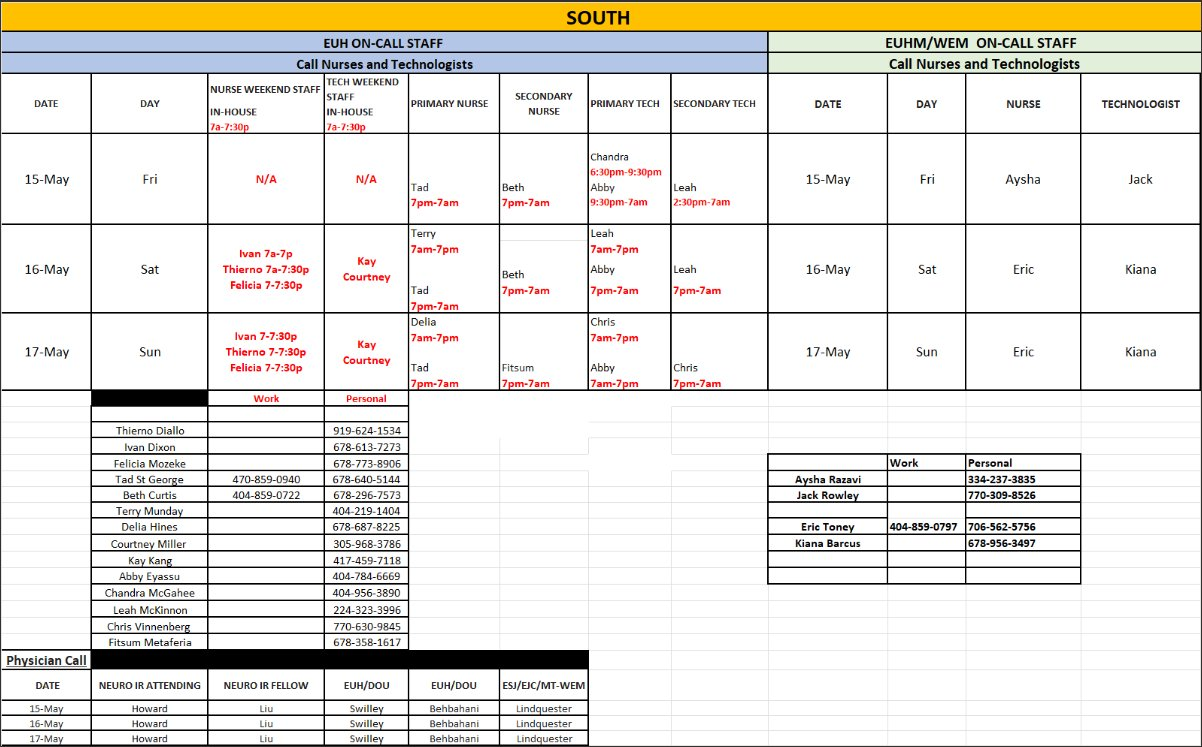
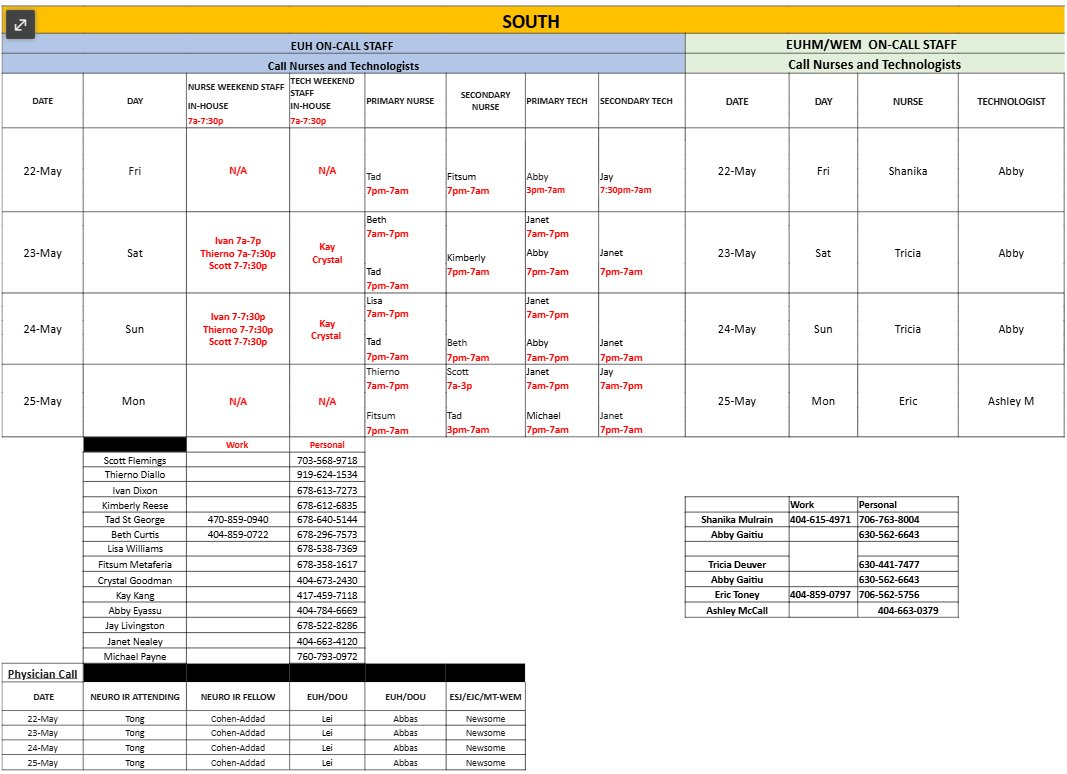
Add files via upload

diff --git a/src/App.jsx b/src/App.jsx
@@ -39,30 +39,30 @@ const HOSPITAL_ROLES = {
   ],
   2: [
     { key:"IR",               label:"IR",                  icon:"🩺", row:0 },
-    { key:"NursingSupervisor",label:"Nursing Supervisor",  icon:"👩⚕", row:0, static:true, phone:"470-382-0191", note:"Nursing Supervisor will provide information on the technologist and the RN on call." },
+    { key:"NursingSupervisor",label:"Nursing Supervisor",  icon:"👩⚕", row:1, static:true, phone:"470-382-0191", note:"Nursing Supervisor will provide information on the technologist and the RN on call." },
     { key:"Anesthesia",       label:"Anesthesia",          icon:"💉", row:1, static:true, phone:"", note:"Look up on EHConnect", link:"https://ehconnect.eushc.org/", linkLabel:"Open EHConnect" },
   ],
   3: [
     { key:"IR",                  label:"IR",                   icon:"🩺", row:0 },
-    { key:"RadiologySupervisor", label:"Radiology Supervisor", icon:"🔬", row:0, static:true, phone:"470-630-7477", note:"Radiology Supervisor will provide information on the technologist and the RN on call." },
+    { key:"RadiologySupervisor", label:"Radiology Supervisor", icon:"🔬", row:1, static:true, phone:"470-630-7477", note:"Radiology Supervisor will provide information on the technologist and the RN on call." },
     { key:"Anesthesia",          label:"Anesthesia",           icon:"💉", row:1, static:true, phone:"678-371-9038" },
   ],
   4: [
     { key:"IR",          label:"IR",      icon:"🩺", row:0 },
-    { key:"Technologist",label:"IR Tech", icon:"🔧", row:0 },
-    { key:"RN",          label:"RN",      icon:"🩹", row:0 },
+    { key:"Technologist",label:"IR Tech", icon:"🔧", row:1 },
+    { key:"RN",          label:"RN",      icon:"🩹", row:1 },
     { key:"ESJH_CTTech",     label:"CT Tech",          icon:"🖥", row:1, static:true, phone:"678-843-7093" },
-    { key:"ESJH_Anesthesia", label:"Anesthesia",       icon:"💉", row:1, static:true, phone:"", note:'EHConnect → On-Call → Anesthesiology → select "Anesthesiology - ESJH - Anesthesiologist - 1"', link:"https://ehconnect.eushc.org/", linkLabel:"Open EHConnect" },
+    { key:"ESJH_Anesthesia", label:"Anesthesia",       icon:"💉", row:2, static:true, phone:"", note:'EHConnect → On-Call → Anesthesiology → select "Anesthesiology - ESJH - Anesthesiologist - 1"', link:"https://ehconnect.eushc.org/", linkLabel:"Open EHConnect" },
     { key:"ESJH_RadMain",   label:"Radiology Main",    icon:"📞", row:2, static:true, phone:"678-843-7341" },
     { key:"ESJH_ORFront",   label:"OR Front Desk",     icon:"📞", row:2, static:true, phone:"678-843-7360" },
   ],
   5: [
     { key:"IR",         label:"IR",            icon:"🩺", row:0 },
-    { key:"OCC",        label:"On Call Coordinator / Nursing Supervisor",  icon:"📞", row:0, static:true, phone:"404-491-5493", note:"OCC will call in IR Tech & RN.\n\nProvide following:\n• Patient name, MRN, location\n• Planned procedure & expected time\n• If anesthesia needed" },
-    { key:"POS",        label:"Point of Service",     icon:"📞", row:0, static:true, phone:"404-778-8298", note:"POS will help post your case, inform POS if anesthesia assistance will be needed" },
-    { key:"CTTech",     label:"CT Tech",       icon:"🖥", row:1, static:true, phone:"470-707-5459", phone2:"470-686-2641" },
-    { key:"Anesthesia", label:"Anesthesia",    icon:"💉", row:1, static:true, phone:"470-990-1356" },
-    { key:"Operator",   label:"EJCH Operator", icon:"📞", row:1, static:true, phone:"678-474-7000" },
+    { key:"OCC",        label:"Nursing Supervisor",  icon:"📞", row:1, static:true, phone:"404-491-5493", badge:"call 1st", note:"OCC will call in IR Tech & RN.\n\nProvide following:\n• Patient name, MRN, location\n• Planned procedure & expected time\n• If anesthesia needed" },
+    { key:"POS",        label:"Point of Service",     icon:"📞", row:1, static:true, phone:"404-778-8298", note:"POS will help post case" },
+    { key:"CTTech",     label:"CT Tech",       icon:"🖥", row:1, static:true, phone:"470-707-5459", phone2:"470-686-2641", noText:true },
+    { key:"Anesthesia", label:"Anesthesia",    icon:"💉", row:2, static:true, phone:"470-990-1356" },
+    { key:"Operator",   label:"EJCH Operator", icon:"📞", row:2, static:true, phone:"678-474-7000" },
   ],
   6: [
     { key:"IR",          label:"IR",         icon:"🩺", row:0 },
@@ -70,7 +70,7 @@ const HOSPITAL_ROLES = {
     { key:"Technologist",label:"IR Tech",    icon:"🔧", row:1, friWeekend:true },
     { key:"RN",          label:"RN",         icon:"🩹", row:1, friWeekend:true },
     { key:"RadFrontDesk",label:"Radiology Front Desk", icon:"📞", row:1, static:true, phone:"404-686-5998", note:"Call to find out the on-call RN and IR Tech" },
-    { key:"CTTech",      label:"CT Tech",    icon:"🖥", row:2, static:true, phone:"" },
+    { key:"CTTech",      label:"CT Tech",    icon:"🖥", row:2, static:true, phone:"404-696-8984" },
     { key:"Anesthesia",  label:"Anesthesia", icon:"💉", row:2, static:true, phone:"", note:"Check on EHConnect for on-call anesthesiologist", link:"https://ehconnect.eushc.org/", linkLabel:"Open EHConnect" },
   ],
   7: [
@@ -114,7 +114,7 @@ const parseEUHTab = (text, data) => {
     data[id].IR[day] = { name:c(r,2), phone:c(r,3), time: isWE ? "All Day" : "5:00 PM – 7:00 AM" };
     if (id === 1) {
       data[id].Resident[day] = { name:c(r,4), phone:c(r,5), time: isWE ? "All Day" : "5:00 PM – 7:00 AM" };
-      // IH RN (weekend only) — up to 3 people from cols 6-11
+      // IH RN — weekends only
       if (isWE) {
         const entries = [];
         if (c(r,6)) entries.push({ name:c(r,6), phone:c(r,7) });
@@ -133,7 +133,7 @@ const parseEUHTab = (text, data) => {
         data[id].PrimaryRN[day] = { name:c(r,14)||"N/A", phone:c(r,15)||"", time:c(r,14)?"7:00 PM – 7:00 AM":"" };
       }
       data[id].SecondRN[day] = { name:c(r,16)||"N/A", phone:c(r,17)||"", time:c(r,16)?"7:00 PM – 7:00 AM":"" };
-      // IH Tech (weekend only) — up to 2 people from cols 18-21
+      // IH Tech — weekends only
       if (isWE) {
         const entries = [];
         if (c(r,18)) entries.push({ name:c(r,18), phone:c(r,19) });
@@ -437,7 +437,7 @@ export default function App() {
   // #5/#6 Hide full week for roles with hideWeek flag or static roles
   const showFullWeek = !activeRole?.static && !activeRole?.hideWeek;
 
-  const PhoneButtons = ({ phone, clr }) => {
+  const PhoneButtons = ({ phone, clr, noText }) => {
     if (!phone) return null;
     const digits = phone.replace(/[^0-9]/g,"");
     return (
@@ -446,10 +446,10 @@ export default function App() {
           padding:"8px 0", borderRadius:"8px", background:clr, color:"#fff", textDecoration:"none", fontSize:"12px", fontWeight:700 }}>
           📞 Call
         </a>
-        <a href={`sms:${digits}`} style={{ flex:1, display:"flex", alignItems:"center", justifyContent:"center", gap:"4px",
+        {!noText && <a href={`sms:${digits}`} style={{ flex:1, display:"flex", alignItems:"center", justifyContent:"center", gap:"4px",
           padding:"8px 0", borderRadius:"8px", background:T.oncallBg, border:`1.5px solid ${clr}`, color:clr, textDecoration:"none", fontSize:"12px", fontWeight:700 }}>
           💬 Text
-        </a>
+        </a>}
       </div>
     );
   };
@@ -505,7 +505,7 @@ export default function App() {
                     boxShadow: act ? `0 2px 6px ${hospital.color}40` : "none",
                   }}>
                     <div style={{ fontSize:"16px" }}>{role.icon}</div>
-                    <div style={{ fontSize:"12px", fontWeight:700, lineHeight:"1.2", marginTop:"2px" }}>{role.label}</div>
+                    <div style={{ fontSize:"12px", fontWeight:700, lineHeight:"1.2", marginTop:"2px" }}>{role.label}{role.badge && <span style={{ fontSize:"9px", fontWeight:600, opacity:0.75, display:"block" }}>({role.badge})</span>}</div>
                   </div>
                 );
               })}
@@ -517,7 +517,7 @@ export default function App() {
         {selectedHospital === 5 && (
           <div style={{ marginBottom:"12px", padding:"12px 14px", borderRadius:"12px", background: dk ? "#1E2A3A" : "#E6EDF8", border:`2px solid ${dk ? "#3D5A7A" : "#8AA0C0"}` }}>
             <div style={{ fontSize:"14px", fontWeight:800, color: dk ? "#C0D0E0" : "#1B3A5C", marginBottom:"5px" }}>📋 EJCH Call Workflow</div>
-            <div style={{ fontSize:"13px", color: dk ? "#B0C0D0" : "#2A3A5A", lineHeight:"1.5", whiteSpace:"pre-line" }}>{"1. Call OCC/RN Supervisor — give appropriate info\n2. Call Anesthesia (if needed)\n3. Enter Procedure order\n\nOn-call team (RN/IR Tech) will post case utilizing P.O.S."}</div>
+            <div style={{ fontSize:"13px", color: dk ? "#B0C0D0" : "#2A3A5A", lineHeight:"1.5", whiteSpace:"pre-line" }}>{"1. Call OCC/RN Supervisor — give appropriate info\n2. Call Anesthesia (if needed)\n3. Enter Procedure order\nOn-call team (RN/IR Tech) will post case utilizing P.O.S."}</div>
           </div>
         )}
 
@@ -545,10 +545,10 @@ export default function App() {
               {activeRole.phone ? (
                 <>
                   <div style={{ fontSize:"16px", fontWeight:700, color:T.text }}>{activeRole.phone}</div>
-                  <PhoneButtons phone={activeRole.phone} clr={hospital.color} />
+                  <PhoneButtons phone={activeRole.phone} clr={hospital.color} noText={activeRole.noText} />
                   {activeRole.phone2 && <>
                     <div style={{ fontSize:"14px", fontWeight:600, color:T.text, marginTop:"10px" }}>{activeRole.phone2}</div>
-                    <PhoneButtons phone={activeRole.phone2} clr={hospital.color} />
+                    <PhoneButtons phone={activeRole.phone2} clr={hospital.color} noText={activeRole.noText} />
                   </>}
                 </>
               ) : !activeRole.image ? <div style={{ color:T.textMuted, fontSize:"13px" }}>No number assigned</div> : null}
